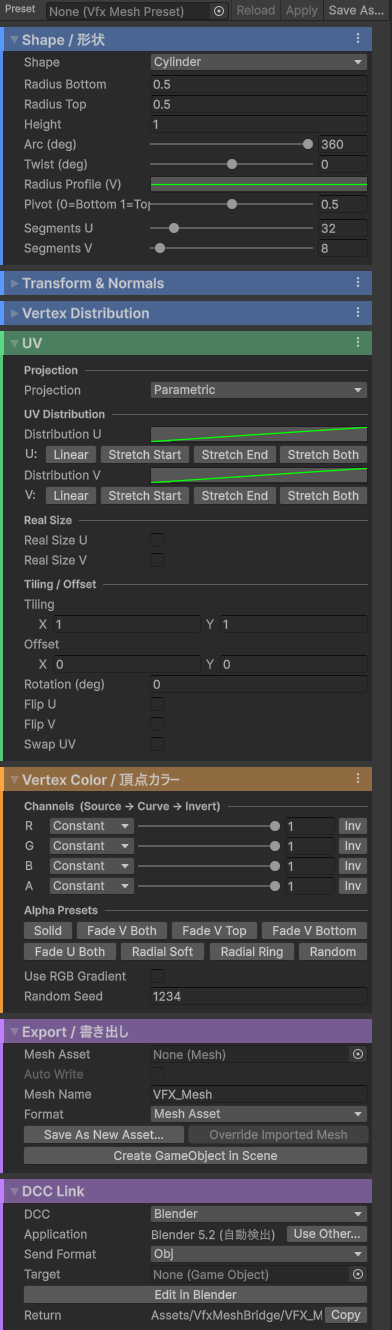
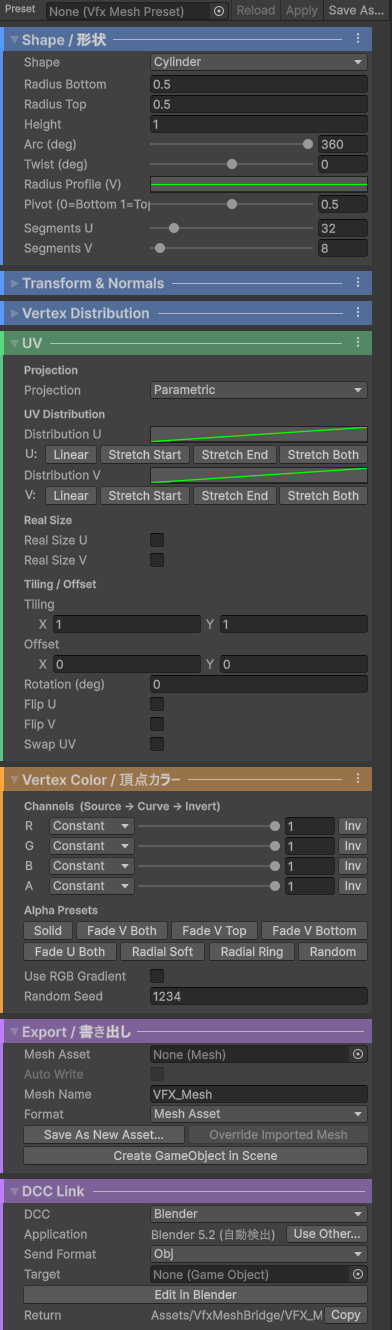
Section cards: lighter background so input fields stay visible, rule in the header
In the dark skin the card background matched Unity's input fields, so the
number fields disappeared into it. The card is now one step lighter than
the window. A line runs across each section header band after the title,
and sub-headings no longer draw their own thin lines. README screenshots
retaken.

Changed region(s): [[0.2143, 0.7707, 0.3367, 0.8015], [0.2143, 0.0, 0.2755, 0.0308]]

diff --git a/Editor/VfxMeshToolWindow.cs b/Editor/VfxMeshToolWindow.cs
@@ -375,8 +375,8 @@ namespace VfxMeshTool.EditorUI
 
         /// <summary>
         /// セクション内の小見出し。miniBoldLabel は字が小さく、どこからどこまでが
-        /// 一つのまとまりなのか読み取りにくいので、少し大きい太字 + 右へ伸びる区切り線 +
-        /// 上の余白で「ここから次のまとまりが始まる」ことを示す。
+        /// 一つのまとまりなのか読み取りにくいので、少し大きい太字 + 上の余白で「ここから次のまとまりが始まる」ことを示す。
+        /// 線は引かない (横線はセクション見出しにだけ引き、線が多すぎて見づらくならないようにする)。
         /// </summary>
         private static void SubHeader(string label, string tooltip = null)
         {
@@ -397,21 +397,13 @@ namespace VfxMeshTool.EditorUI
             Rect row = GUILayoutUtility.GetRect(content, _subHeaderStyle);
             row.xMin += EditorGUI.indentLevel * 15f;
             GUI.Label(row, content, _subHeaderStyle);
-
-            float textW = _subHeaderStyle.CalcSize(content).x;
-            Rect line = new Rect(row.x + textW + 6f, row.y + row.height * 0.5f, row.width - textW - 6f, 1f);
-            if (line.width > 8f)
-            {
-                EditorGUI.DrawRect(line, RuleColor(SubRuleStrength));
-            }
             GUILayout.Space(2f);
         }
 
         // ---- rules (罫線) ----
-        // セクションの境目はカード (下の section cards) で見せる。線はツールバーのまとまりの境目 (縦線) とサブ見出しに使う
+        // 横線はセクション見出しの帯の中だけ (BeginSection)。ほかにはツールバーのまとまりの境目に縦線を引く
 
         private const float ToolbarRuleStrength = 0.32f;
-        private const float SubRuleStrength = 0.24f;
 
         /// <summary>罫線の色。ダークテーマでは白、ライトテーマでは黒を半透明で重ねるので、どちらのテーマでも見える。</summary>
         private static Color RuleColor(float strength)
@@ -465,8 +457,8 @@ namespace VfxMeshTool.EditorUI
         }
 
         // ---- section cards ----
-        // セクションを 1 枚のカードとして見せる: 見出しは種類の色を重ねた帯 + 大きめの太字、中身はウィンドウより一段沈めた
-        // (ライトテーマでは一段明るい) 背景、左端に種類の色のライン。カードの間は少し空ける。
+        // セクションを 1 枚のカードとして見せる: 見出しは種類の色を重ねた帯 + 大きめの太字、中身はウィンドウより一段明るい
+        // 背景 (入力欄が沈まないように)、左端に種類の色のライン。カードの間は少し空ける。
 
         private static GUIStyle _cardStyle;
         private static Texture2D _cardTex;
@@ -474,12 +466,13 @@ namespace VfxMeshTool.EditorUI
 
         private static Color CardColor
         {
-            get { return EditorGUIUtility.isProSkin ? new Color(0.165f, 0.165f, 0.175f, 1f) : new Color(0.85f, 0.85f, 0.86f, 1f); }
+            // ダークテーマでは入力欄 (0.165 前後) より明るくして、欄が背景に沈まないようにする (ウィンドウ 0.22 より一段明るい)
+            get { return EditorGUIUtility.isProSkin ? new Color(0.255f, 0.255f, 0.265f, 1f) : new Color(0.85f, 0.85f, 0.86f, 1f); }
         }
 
         private static Color HeaderBaseColor
         {
-            get { return EditorGUIUtility.isProSkin ? new Color(0.25f, 0.25f, 0.265f, 1f) : new Color(0.9f, 0.9f, 0.91f, 1f); }
+            get { return EditorGUIUtility.isProSkin ? new Color(0.3f, 0.3f, 0.315f, 1f) : new Color(0.9f, 0.9f, 0.91f, 1f); }
         }
 
         /// <summary>カードの中身の背景。テーマが変わったら作り直す。</summary>
@@ -552,7 +545,19 @@ namespace VfxMeshTool.EditorUI
                 }
             }
             var foldRect = new Rect(r.x + 8f, r.y + (r.height - 20f) * 0.5f, r.width - 8f - (menu != null ? 26f : 4f), 20f);
-            fold = EditorGUI.Foldout(foldRect, fold, new GUIContent(title, tooltip), true, SectionHeaderStyle);
+            var titleContent = new GUIContent(title, tooltip);
+            if (Event.current.type == EventType.Repaint)
+            {
+                // 見出しの文字の右から ⋮ の手前まで横線を引き、セクションの始まりをはっきりさせる
+                float lineStart = foldRect.x + SectionHeaderStyle.CalcSize(titleContent).x + 8f;
+                float lineEnd = (menu != null ? menuRect.x : r.xMax) - 8f;
+                if (lineEnd - lineStart > 8f)
+                {
+                    Color line = EditorGUIUtility.isProSkin ? new Color(1f, 1f, 1f, 0.5f) : new Color(0f, 0f, 0f, 0.35f);
+                    EditorGUI.DrawRect(new Rect(lineStart, Mathf.Round(r.center.y), lineEnd - lineStart, 1f), line);
+                }
+            }
+            fold = EditorGUI.Foldout(foldRect, fold, titleContent, true, SectionHeaderStyle);
             if (fold)
             {
                 EditorGUILayout.BeginVertical(CardStyle);

diff --git a/CHANGELOG.md b/CHANGELOG.md
@@ -18,7 +18,7 @@ All notable changes to this package are documented here. The format follows [Kee
 - Tiling / Offset of the preview texture in the 3D view toolbar. Adds to Scroll and is reset by Default; the mesh UVs and the Mat asset do not change (UserMaterial mode uses a copy of Mat).
 
 ### Changed
-- Each section of the settings panel is a card: a header band in the section colour with a larger bold title, a recessed background for its contents and a line in the section colour down its left edge. Sub-headings have stronger lines, and separators split the groups of the 3D / UV view toolbars. Works in both the dark and light editor skins.
+- Each section of the settings panel is a card: a header band in the section colour with a larger bold title and a line across it, a background for its contents (one step lighter than the window in the dark skin, so the input fields stay visible) and a line in the section colour down its left edge. Sub-headings no longer draw lines, and separators split the groups of the 3D / UV view toolbars. Works in both the dark and light editor skins.
 - README screenshots (window layout, settings panel) retaken with the new UI.
 - Scroll now also moves the textures of Mat in UserMaterial mode (through a copy; the asset is not changed).
 
